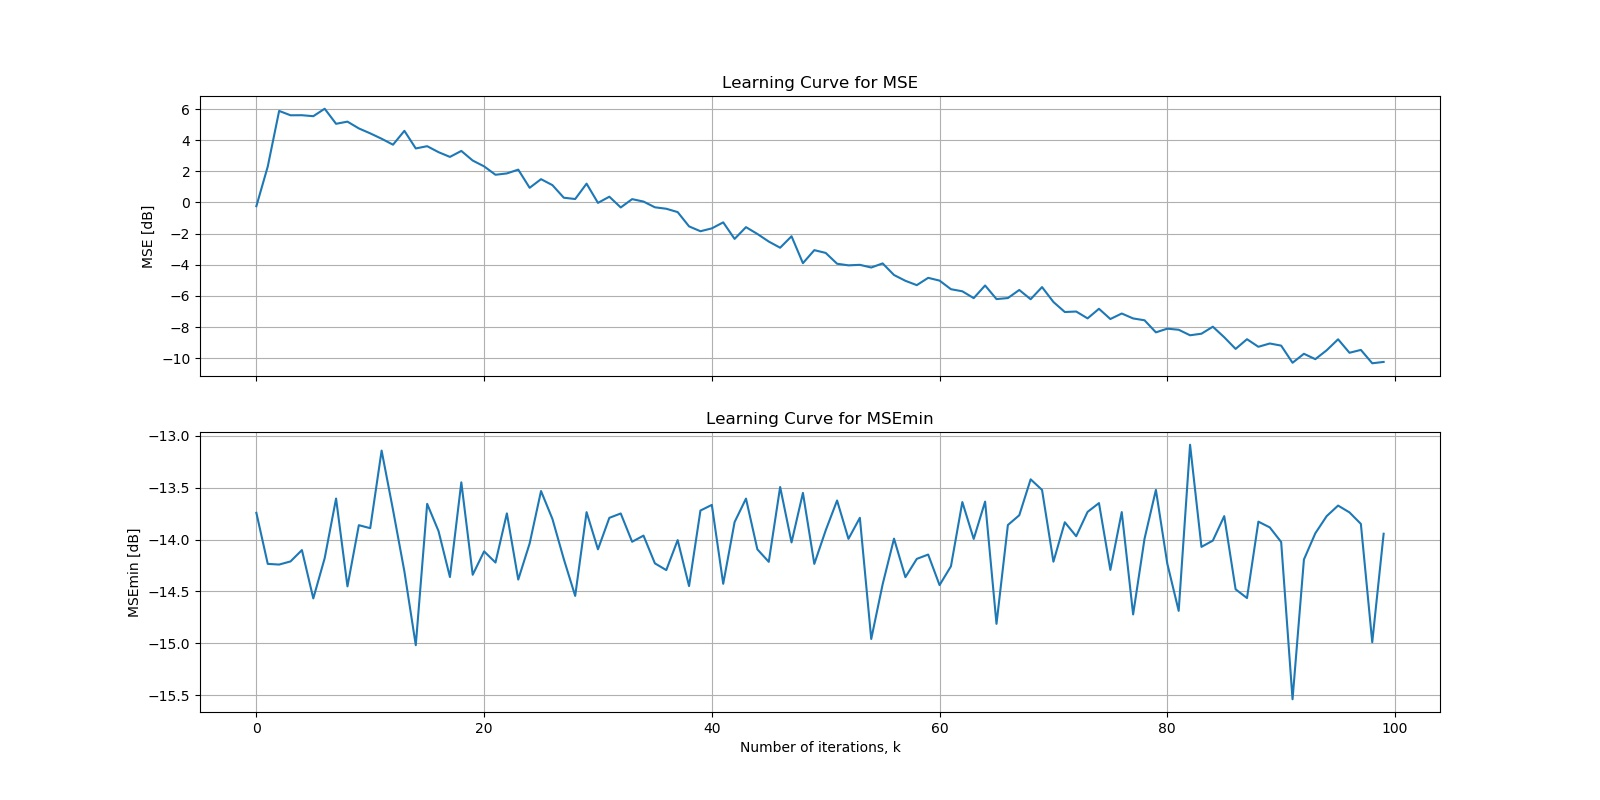
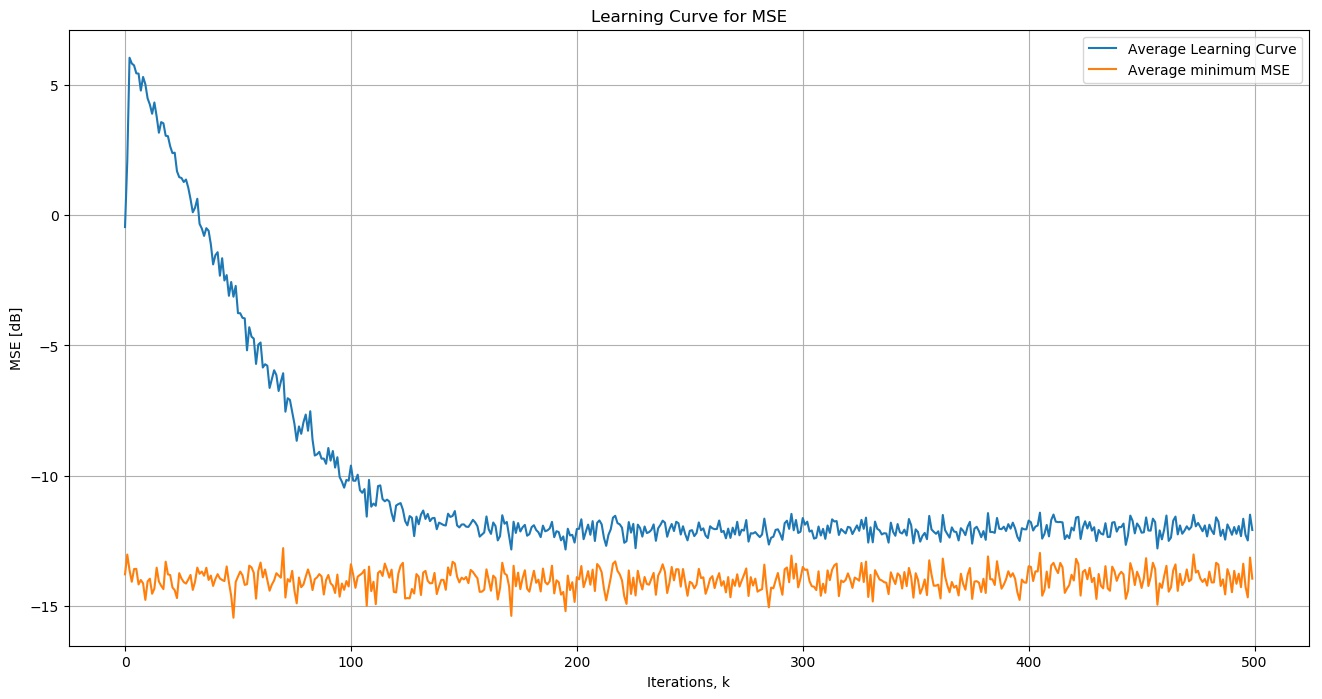
Fixing LMSNewton

diff --git a/adaptive_filtering/lms.py b/adaptive_filtering/lms.py
@@ -271,15 +271,16 @@ class LMSNewton(LMS):
         X_tapped = rolling_window(prefixed_x, self.n_coef)
 
         for k in np.arange(self.n_iterations):                    
-            regressor = X_tapped[k]
-            self.output_vector[k] = np.dot(np.conj(self.coef_vector[k]), regressor)
+            regressor = np.array(X_tapped[k])
+            self.output_vector[k] = np.dot(np.conj(self.coef_vector[k]), regressor)            
             self.error_vector[k] = self.d[k]-self.output_vector[k]
 
-            aux_den = (1-self.alpha)/self.alpha + np.dot(np.dot(np.conj(regressor).T, self.inv_rx_hat), regressor)
-            aux_prod_a = np.dot(self.inv_rx_hat, regressor)
-            aux_prod_b = np.dot(np.conj(regressor), self.inv_rx_hat)
-            self.inv_rx_hat = 1/(1-self.alpha)*(self.inv_rx_hat - np.dot(aux_prod_a, aux_prod_b)/aux_den)            
-            
-            self.coef_vector[k+1] = self.coef_vector[k]+self.step*np.conj(self.error_vector[k])*np.dot(self.inv_rx_hat, regressor)
+            aux_prod_a = np.dot(self.inv_rx_hat, np.array([regressor]).T)
+            aux_prod_b = np.dot(np.conj(regressor).T, self.inv_rx_hat)
+            aux_num = np.dot(aux_prod_a, np.array([aux_prod_b]))
+            aux_den = (1-self.alpha)/self.alpha + np.dot(np.dot(np.conj(regressor), self.inv_rx_hat), regressor)
+
+            self.inv_rx_hat = 1/(1-self.alpha)*(self.inv_rx_hat - aux_num/aux_den)                        
+            self.coef_vector[k+1] = self.coef_vector[k]+self.step*self.error_vector[k]*np.dot(self.inv_rx_hat, regressor)
                         
         return self.output_vector, self.error_vector, self.coef_vector

diff --git a/adaptive_filtering/utils.py b/adaptive_filtering/utils.py
@@ -32,17 +32,14 @@ def generate_learning_plots(K, N, MSE_av, MSEmin_av, W_av, w_o=None, output_file
         algorithm {str} -- algorithm's name (default: {'LMS'})
     """
     # Generating Learning Curve plots 
-    fig, ax = plt.subplots(ncols=1, nrows=2, figsize=(16,8), sharex=True)
-    ax[0].plot(np.arange(K), 10*np.log10(MSE_av))
-    ax[0].set_title('Learning Curve for MSE')
-    ax[0].set_ylabel('MSE [dB]')
-    ax[0].grid(True)
-
-    ax[1].plot(np.arange(K), 10*np.log10(MSEmin_av))
-    ax[1].set_title('Learning Curve for MSEmin')
-    ax[1].set_ylabel('MSEmin [dB]')
-    ax[1].set_xlabel('Number of iterations, k') 
-    ax[1].grid(True)
+    fig, ax = plt.subplots(ncols=1, nrows=1, figsize=(16,4))
+    ax.plot(np.arange(K), 10*np.log10(MSE_av), label = 'Average Learning Curve')
+    ax.plot(np.arange(K), 10*np.log10(MSEmin_av), label='Average minimum MSE')
+    ax.set_title('Learning Curve for MSE')
+    ax.set_ylabel('MSE [dB]')
+    ax.set_xlabel('Iterations, k')
+    ax.grid(True)
+    ax.legend()
 
     if output_filepath is not None:
         # Creating plots output folder if they don't exist

diff --git a/Examples/NLMS_systemID.py b/Examples/NLMS_systemID.py
@@ -22,7 +22,7 @@
 import sys, os
 import numpy as np 
 import matplotlib.pyplot as plt
-sources_path = './../Sources/'
+sources_path = './../'
 if sources_path not in sys.path:
     sys.path.append(sources_path)
 
@@ -34,7 +34,7 @@ def main(output_filepath = None):
     ## Definitions
     j = complex(0,1)
     n_ensembles = 100   # number of realizations within the ensemble
-    K = 100             # number of iterations (signal length)
+    K = 500             # number of iterations (signal length)
     H = np.array([0.32+0.21*j,-0.3+0.7*j,0.5-0.8*j,0.2+0.5*j])    
     w_o = H             # Unknown system
     sigma_n2 = .04      # noise power

diff --git a/Examples/LMSNewton_systemID.py b/Examples/LMSNewton_systemID.py
@@ -22,7 +22,7 @@
 import sys, os
 import numpy as np 
 import matplotlib.pyplot as plt
-sources_path = './Sources/'
+sources_path = './../'
 if sources_path not in sys.path:
     sys.path.append(sources_path)
 
@@ -35,7 +35,7 @@ def main(output_filepath = None):
     ## Definitions
     j = complex(0,1)
     n_ensembles = 100   # number of realizations within the ensemble
-    K = 100             # number of iterations (signal length)
+    K = 500             # number of iterations (signal length)
     H = np.array([0.32,-0.3,0.5,0.2])    
     w_o = H             # Unknown system
     sigma_n2 = .04      # noise power

diff --git a/Examples/DualSign_systemID.py b/Examples/DualSign_systemID.py
@@ -22,7 +22,7 @@
 import sys, os
 import numpy as np 
 import matplotlib.pyplot as plt
-sources_path = './../Sources/'
+sources_path = './../'
 if sources_path not in sys.path:
     sys.path.append(sources_path)
 

diff --git a/Examples/LMS_systemID.py b/Examples/LMS_systemID.py
@@ -22,7 +22,7 @@
 import sys, os
 import numpy as np 
 import matplotlib.pyplot as plt
-sources_path = './../Sources/'
+sources_path = './../'
 if sources_path not in sys.path:
     sys.path.append(sources_path)
 

diff --git a/Examples/SignData_systemID.py b/Examples/SignData_systemID.py
@@ -22,7 +22,7 @@
 import sys, os
 import numpy as np 
 import matplotlib.pyplot as plt
-sources_path = './../Sources/'
+sources_path = './../'
 if sources_path not in sys.path:
     sys.path.append(sources_path)
 

diff --git a/Examples/SignError_systemID.py b/Examples/SignError_systemID.py
@@ -22,7 +22,7 @@
 import sys, os
 import numpy as np 
 import matplotlib.pyplot as plt
-sources_path = './../Sources/'
+sources_path = './../'
 if sources_path not in sys.path:
     sys.path.append(sources_path)
 

diff --git a/README.md b/README.md
@@ -1,14 +1,32 @@
-# AdaptiveFiltering
+# Adaptive Filtering
 
 Repository containing a Python implemetation of the Matlab [Adaptive Filtering toolbox](http://www.mathworks.com/matlabcentral/fileexchange/3582-adaptive-filtering). 
 
-All classes can be found in the `Sources/adaptive_filtering` folder. A notebook containing solutions for exercises in [Adaptive Filtering: Algorithms and Practical Implementation](https://www.springer.com/gp/book/9781461441052) can be found in the `Notebooks` folder. 
-
-To run examples, check the `Examples` folder. The scripts do not need any arguments through the command line and the outputs are stored by default in the `Examples/Outputs` folder (such filepath can be changed in each script though).
+All classes can be found in the `adaptive_filtering` folder. A notebook containing solutions for exercises in [Adaptive Filtering: Algorithms and Practical Implementation](https://www.springer.com/gp/book/9781461441052) can be found in the `Notebooks` folder. 
 
 ## LMS-based Algorithms: 
-- LMS
-- NLMS
+
+The following LMS-based algorithms have been implemented:
+
+- LMS (Least Mean Square)
+- NLMS (Normalized LMS)
+- LMSNewton
 - SignData
 - SignError
 - DualSign
+
+## Examples 
+
+To run examples, check the `Examples` folder. The scripts do not need any arguments through the command line and the outputs are stored by default in the `Examples/Outputs` folder (such filepath can be changed in each script though). 
+
+Take for instance a system identifications where the standard LMS algorithm has to identify the following weights vector (which is also its Wiener Solution): 
+
+$$ \textbf{w}_o = [0.32+0.21j,-0.3+0.7j,0.5-0.8j,0.2+0.5j]^T$$
+
+By running the example with $K = 100$ iterations, $\mu = 0.1$ and taking the average of $25$ ensembles, the following learning curves are provided:
+
+<img src="./Examples/Outputs/LMS_coef_evolution.jpg" style="float: left; margin-right: 10px;" />
+
+<img src="./Examples/Outputs/LMS_learning_curve.jpg" style="float: left; margin-right: 6px;" />
+
+
